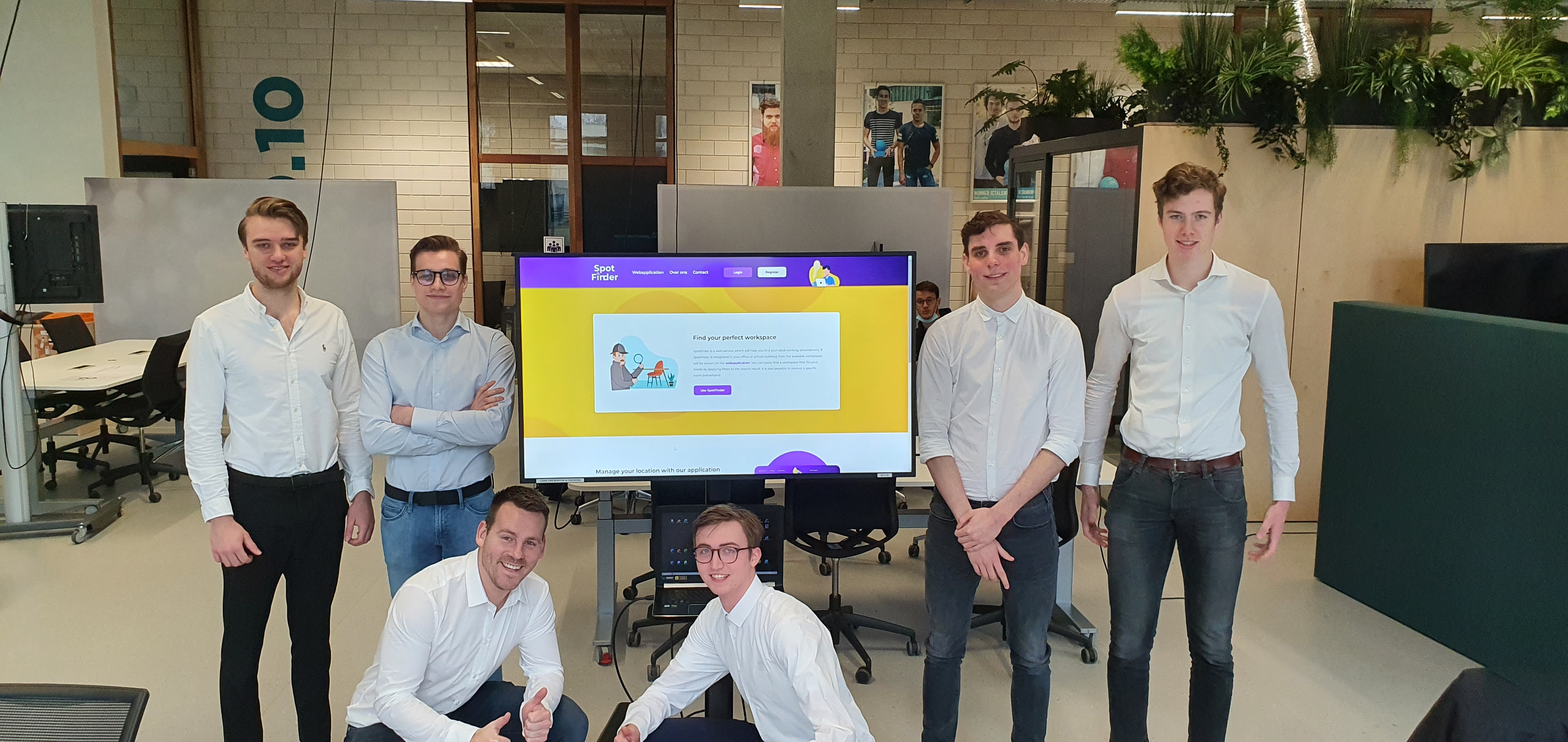
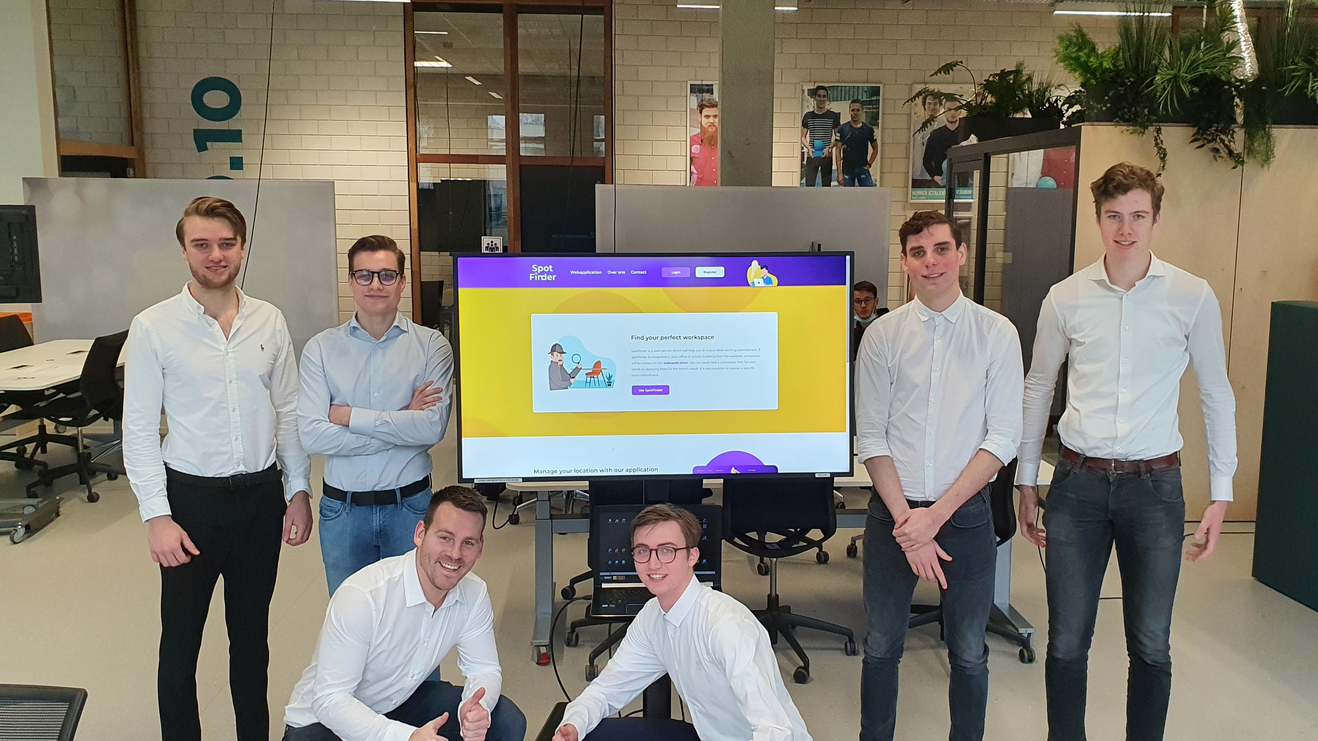
Updated about-us

diff --git a/resources/sass/pages/_about-us.sass b/resources/sass/pages/_about-us.sass
@@ -1,0 +1,9 @@
+.about-us
+    @media screen and (min-width: $laptop)
+        & > *
+            max-width: 58vw
+
+    &__image
+        width: 100%
+        margin: 5rem 0
+        border-radius: $border-radius

diff --git a/resources/sass/styles.sass b/resources/sass/styles.sass
@@ -16,6 +16,7 @@
 
 // Custom pages
 @import "pages/dashboard"
+@import "pages/about-us"
 @import "pages/login-and-register"
 
 // Sections on landings page

diff --git a/resources/views/about-us.blade.php b/resources/views/about-us.blade.php
@@ -1,14 +1,16 @@
 @extends('layout')
 
 @section('content')
-    <main style="margin-left: 0; max-width: 90rem;">
+    <main class="about-us" style="margin-left: 0;">
         <h1 class="h1" style="margin-bottom: 1.5rem;">About us</h1>
 
         <p>
             Spotfinder is a service that helps users to find a suitable and available workplace in an office- or schoolbuilding. The available workspaces of specific locations will be monitored and displayed on the website. You can then use this website to reserve workspaces and search for available workspaces. Besides the website can use the management-application to create, edit or delete rooms and define the available workspaces.
         </p>
 
-        <div class="flex" style="flex-wrap: wrap; margin-top: 5rem;">
+        <img class="about-us__image" src="./img/group-photo.jpg" alt="Group-photo of SpotFinder">
+
+        <div class="flex" style="flex-wrap: wrap; padding-bottom: 5rem;">
             <img style="max-height: 30.4rem; margin-right: 2.5rem;" src="{{ url('img/application-preview.jpg') }}" alt="Preview of application">
             <img style="max-height: 30.4rem;" src="{{ url('img/website-preview-mobile.jpg') }}" alt="Illustration of an detective">
         </div>
